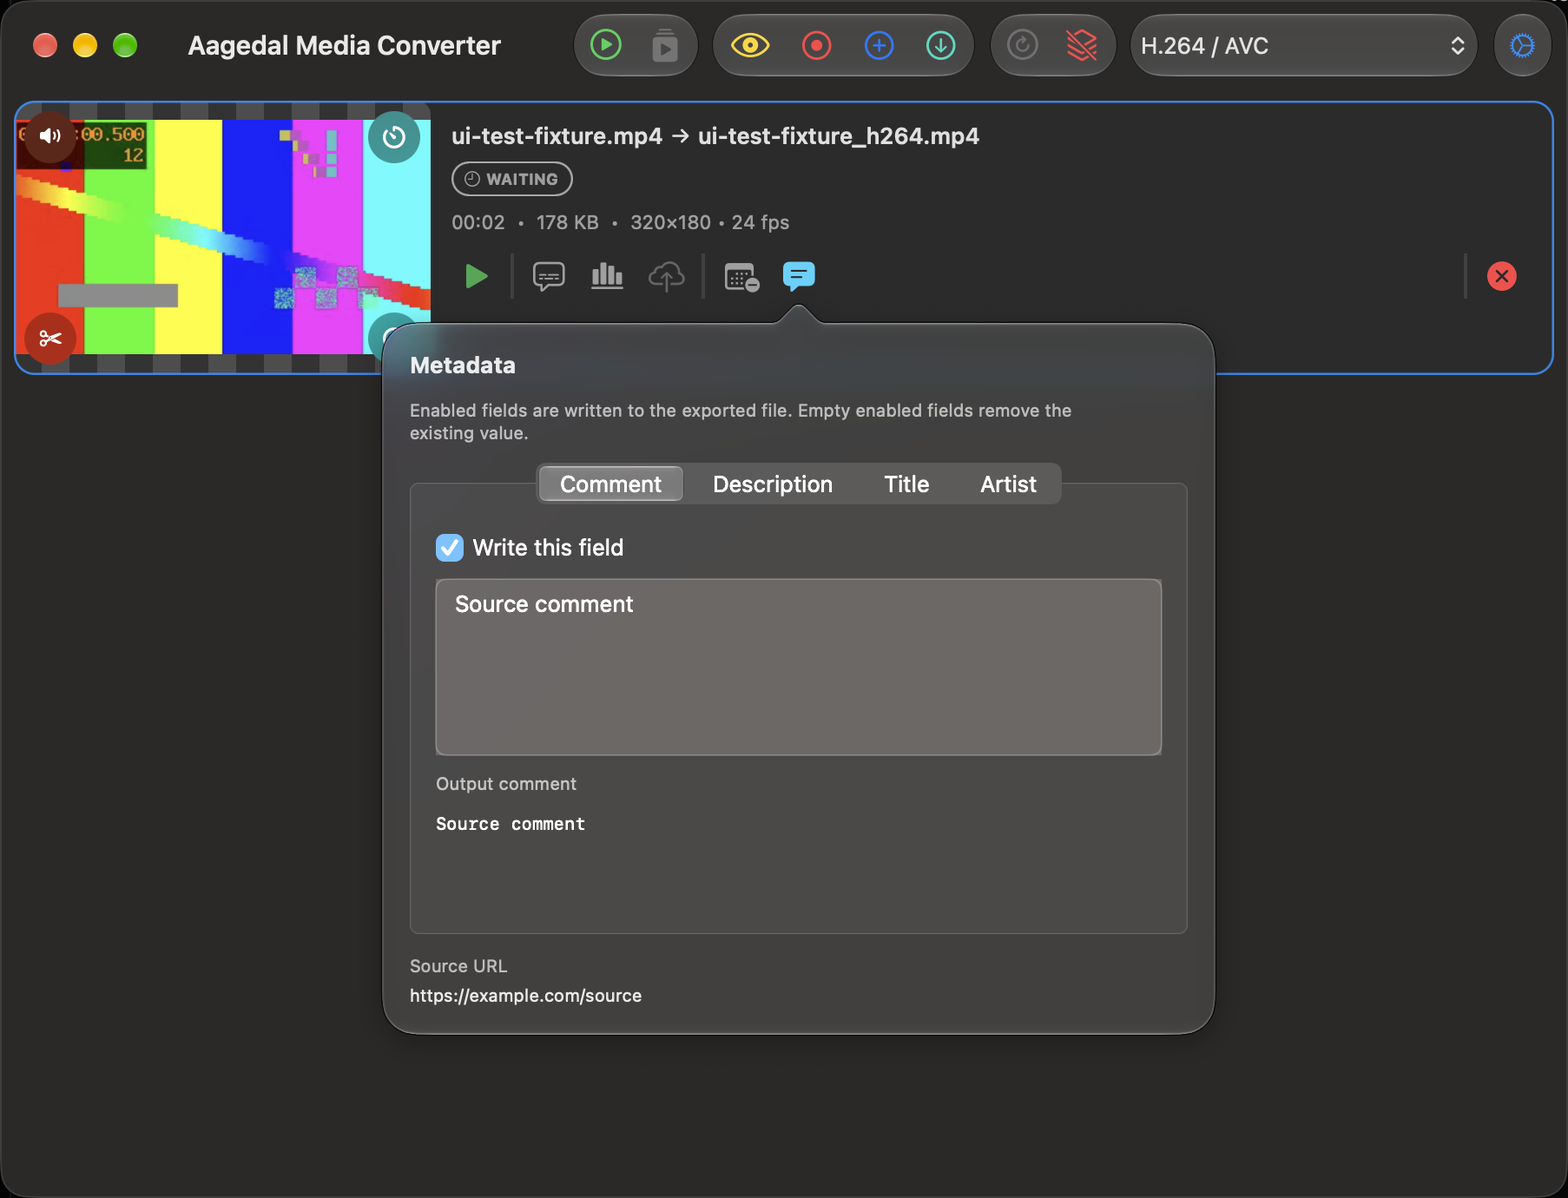
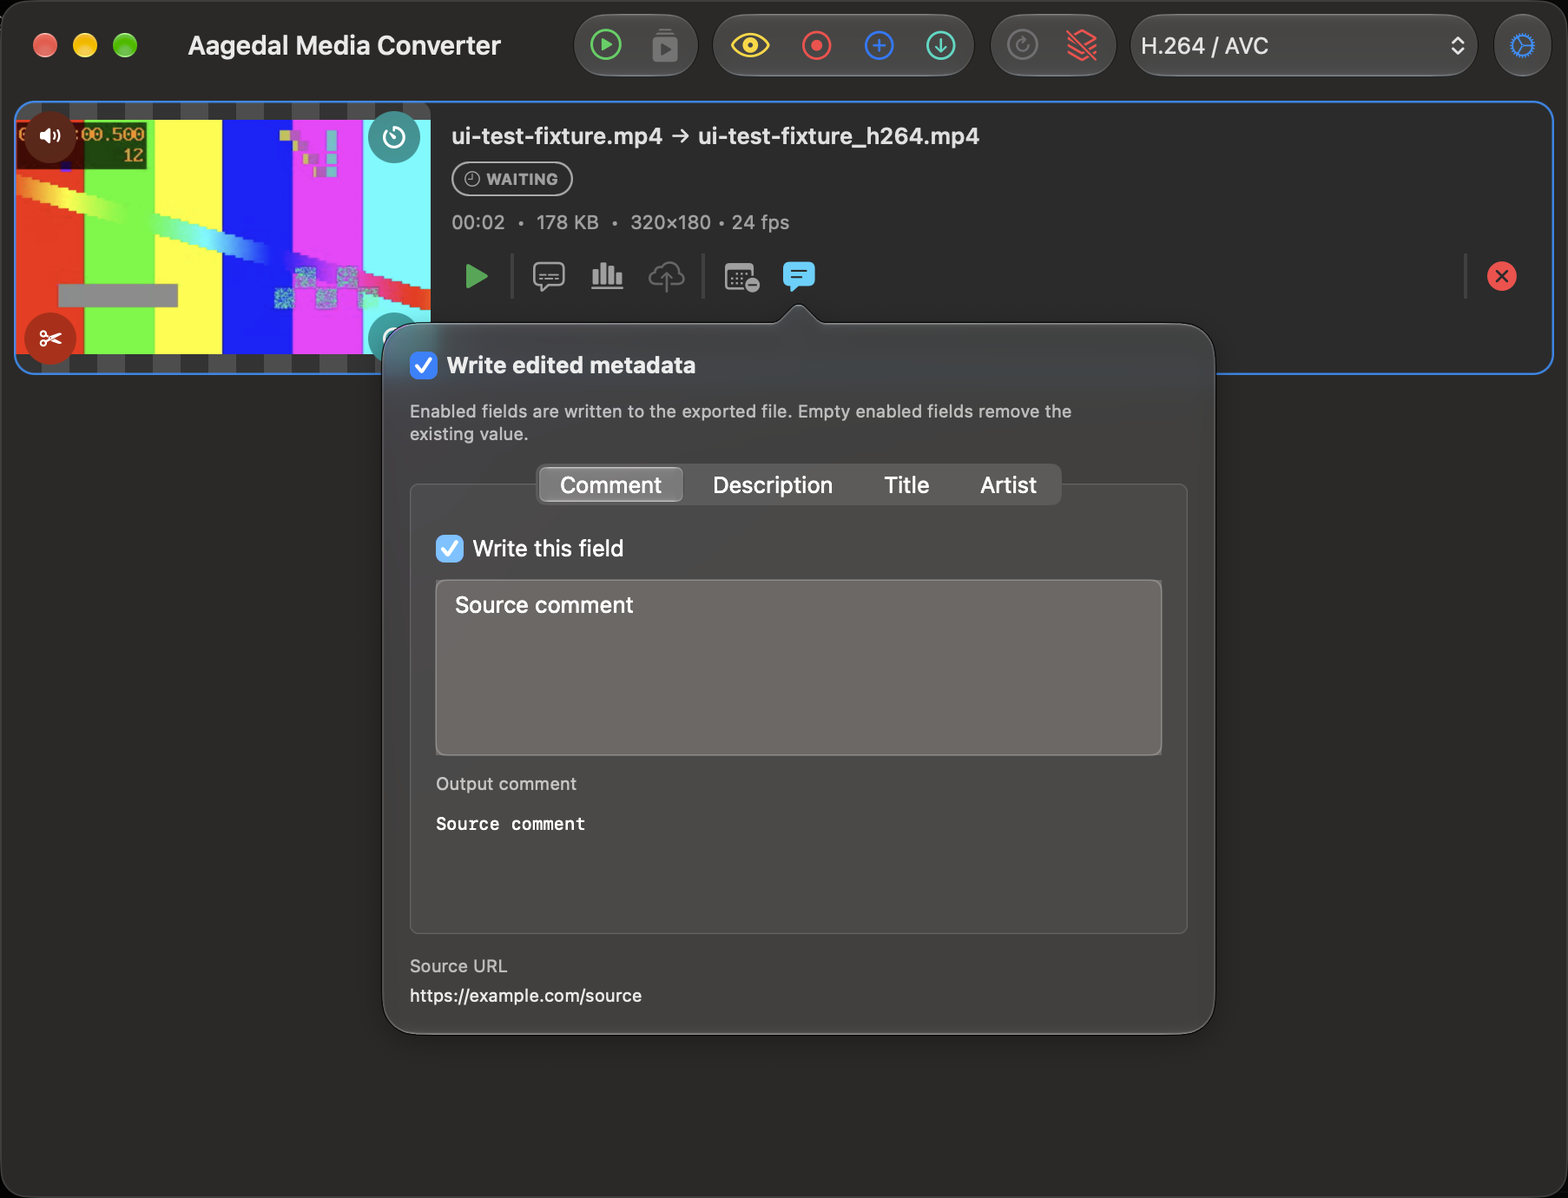
Added a master metadata switch and fixed the Comment indicator.

Changed region(s): [[0.2481, 0.2804, 0.4341, 0.3739], [0.3411, 0.3739, 0.4341, 0.4051]]

diff --git a/Aagedal Media Converter/UI/VideoQueueViews/VideoFileCellView+Comment.swift b/Aagedal Media Converter/UI/VideoQueueViews/VideoFileCellView+Comment.swift
@@ -68,12 +68,21 @@ extension VideoFileCellView: NSPopoverDelegate {
         commentToggleButton.isHidden = !commentsAvailable
         commentToggleButton.isEnabled = !config.isDownloading && config.scheduledDownloadTime == nil && !config.isLiveStreamRecording && config.downloadError == nil
         if commentsAvailable {
-            let hasComment = config.metadataEditorSettings != nil || !config.comment.isEmpty
-            commentToggleButton.image = hasComment ? VideoFileCellView.Symbol.textBubbleFill : VideoFileCellView.Symbol.textBubble
-            commentToggleButton.contentTintColor = hasComment ? .systemCyan : .secondaryLabelColor
-            commentToggleButton.toolTip = hasComment
-                ? "Edit metadata — stored in the exported file"
-                : "Edit metadata — prefilled from the source file"
+            // The speech bubble reflects Comment's override, rather than the
+            // mere existence of saved settings for any of the editor's fields.
+            let writesComment = config.metadataEditorSettings?.writesComment ?? !config.comment.isEmpty
+            commentToggleButton.image = writesComment ? VideoFileCellView.Symbol.textBubbleFill : VideoFileCellView.Symbol.textBubble
+            commentToggleButton.contentTintColor = writesComment ? .systemCyan : .secondaryLabelColor
+            commentToggleButton.setAccessibilityValue(writesComment ? "Comment override enabled" : "Comment override disabled")
+            if config.metadataEditorSettings?.isActive == false {
+                commentToggleButton.toolTip = "Edit metadata — all editor overrides disabled"
+            } else if config.metadataEditorSettings != nil {
+                commentToggleButton.toolTip = writesComment
+                    ? "Edit metadata — Comment override enabled"
+                    : "Edit metadata — Comment override disabled; other fields keep their own settings"
+            } else {
+                commentToggleButton.toolTip = "Edit metadata — prefilled from the source file"
+            }
         }
 
         // DCP / IMF metadata toggle — visible only when the current preset is a
@@ -102,7 +111,7 @@ extension VideoFileCellView: NSPopoverDelegate {
         let showDateTag = config.showDateTagButton
         dateTagButton.isHidden = !showDateTag
         if showDateTag {
-            let writesComment = config.metadataEditorSettings?.comment.isEnabled != false
+            let writesComment = config.metadataEditorSettings?.writesComment != false
             dateTagButton.isEnabled = writesComment
             dateTagButton.toolTip = writesComment ? "Include the generated date in the comment" : "Enable Comment in the metadata editor to include a date tag"
             let isActive = config.includeDateTag && writesComment
@@ -222,8 +231,14 @@ private struct MetadataEditorPopoverView: View {
 
     var body: some View {
         VStack(alignment: .leading, spacing: 12) {
-            Text("Metadata").font(.headline)
-            Text("Enabled fields are written to the exported file. Empty enabled fields remove the existing value.")
+            Toggle("Write edited metadata", isOn: Binding(
+                get: { settings.isActive }, set: { settings.isEnabled = $0 }
+            ))
+            .font(.headline)
+            .accessibilityIdentifier("metadata.editor.enabled")
+            Text(settings.isActive
+                 ? "Enabled fields are written to the exported file. Empty enabled fields remove the existing value."
+                 : "Editor overrides are off. Original metadata follows the preset's preservation setting.")
                 .font(.caption).foregroundStyle(.secondary)
             TabView {
                 field("Comment", value: $settings.comment, multiline: true)
@@ -253,24 +268,28 @@ private struct MetadataEditorPopoverView: View {
             Toggle("Write this field", isOn: value.isEnabled)
                 .help("When off, this field follows the original metadata preservation setting.")
                 .accessibilityIdentifier("metadata.editor.\(label.lowercased()).enabled")
+                .disabled(!settings.isActive)
             if multiline {
                 TextEditor(text: value.value)
+                    // Recreate the native control when editing permission
+                    // changes, keeping its text in the existing binding.
+                    .id(settings.isActive && value.wrappedValue.isEnabled)
                     .font(.body)
                     .scrollContentBackground(.hidden)
                     .padding(6)
                     .background(.background)
                     .overlay(RoundedRectangle(cornerRadius: 6).stroke(.separator))
-                    .disabled(!value.wrappedValue.isEnabled)
+                    .disabled(!settings.isActive || !value.wrappedValue.isEnabled)
                     .accessibilityLabel(label)
                     .accessibilityIdentifier("metadata.editor.\(label.lowercased()).value")
             } else {
                 TextField(label, text: value.value)
                     .textFieldStyle(.roundedBorder)
-                    .disabled(!value.wrappedValue.isEnabled)
+                    .disabled(!settings.isActive || !value.wrappedValue.isEnabled)
                     .accessibilityIdentifier("metadata.editor.\(label.lowercased()).value")
                 Spacer()
             }
-            if label == "Comment", value.wrappedValue.isEnabled {
+            if label == "Comment", settings.isActive, value.wrappedValue.isEnabled {
                 let preview = CommentMetadataPlan(comment: value.wrappedValue.value, includeDateTag: includeDateTag, settings: CommentSettings()).value
                 Text("Output comment").font(.caption).foregroundStyle(.secondary)
                 ScrollView {

diff --git a/Aagedal Media ConverterTests/Aagedal_Media_Converter_Tests.swift b/Aagedal Media ConverterTests/Aagedal_Media_Converter_Tests.swift
@@ -17012,6 +17012,56 @@ final class ContainerTextMetadataTests: XCTestCase {
         }
     }
 
+    func testMasterOffRetainsValuesAndDecodesLegacyEditors() throws {
+        var editor = MetadataEditorSettings(comment: "Comment", description: "Description", title: "Title", artist: "Artist", sourceURL: "https://example.com/source")
+        editor.isEnabled = false
+        XCTAssertFalse(editor.writesComment)
+        XCTAssertTrue(editor.outputArguments.isEmpty)
+        let request = ConversionRequest(inputURL: URL(fileURLWithPath: "/tmp/source.webm"), outputURL: URL(fileURLWithPath: "/tmp/output"), preset: .h264, comment: "Old comment", metadataEditorSettings: editor, includeDateTag: true).applyingMetadataEditor(outputExtension: "mp4")
+        XCTAssertEqual(request.comment, "")
+        XCTAssertFalse(request.includeDateTag)
+        XCTAssertNil(request.additionalOutputArguments)
+        XCTAssertEqual(request.metadataEditorSettings?.title.value, "Title")
+        let decoded = try JSONDecoder().decode(MetadataEditorSettings.self, from: JSONEncoder().encode(editor))
+        XCTAssertFalse(decoded.isActive)
+        XCTAssertEqual(decoded, editor)
+        var legacy = try XCTUnwrap(JSONSerialization.jsonObject(with: JSONEncoder().encode(editor)) as? [String: Any])
+        legacy.removeValue(forKey: "isEnabled")
+        let older = try JSONDecoder().decode(MetadataEditorSettings.self, from: JSONSerialization.data(withJSONObject: legacy))
+        XCTAssertTrue(older.isActive)
+        XCTAssertTrue(older.writesComment)
+    }
+
+    func testMasterOffExportsFollowSourcePreservationPolicy() async throws {
+        let ffmpeg = try XCTUnwrap(BinaryPathResolver.ffmpegPath)
+        let folder = FileManager.default.temporaryDirectory.appendingPathComponent(UUID().uuidString)
+        try FileManager.default.createDirectory(at: folder, withIntermediateDirectories: true)
+        defer { try? FileManager.default.removeItem(at: folder) }
+        let source = folder.appendingPathComponent("source.mp4")
+        let runner = SubprocessRunner()
+        let sourceArgs = ["-v", "error", "-f", "lavfi", "-i", "color=size=32x32:duration=0.1", "-c:v", "libx264", "-metadata", "comment=Source comment", "-metadata", "description=Source description", "-metadata", "title=Source title", "-metadata", "artist=Source artist", "-metadata", "purl=https://example.com/original", "-movflags", "+use_metadata_tags", source.path]
+        let generated = try await runner.run(SubprocessRequest(executableURL: URL(fileURLWithPath: ffmpeg), arguments: sourceArgs, timeout: .seconds(10)))
+        XCTAssertTrue(generated.succeeded, generated.standardErrorText)
+        var editor = MetadataEditorSettings(comment: "Edited comment", description: "Edited description", title: "Edited title", artist: "Edited artist", sourceURL: "https://example.com/edited")
+        editor.isEnabled = false
+        for preserve in [true, false] {
+            let output = folder.appendingPathComponent("output-\(preserve).mp4")
+            let request = ConversionRequest(inputURL: source, outputURL: output, preset: .h264, comment: editor.comment.value, metadataEditorSettings: editor, includeDateTag: true).applyingMetadataEditor(outputExtension: "mp4")
+            var args = ["-v", "error", "-i", source.path, "-c", "copy"]
+            args += request.additionalOutputArguments ?? []
+            OutputMetadataPlan(source: SourceMetadataPlan(preserveMetadata: preserve, defaultInput: 0), comment: .source, timecode: .unchanged).apply(to: &args, outputArgumentsStart: 4, outputExtension: "mp4")
+            args.append(output.path)
+            let result = try await runner.run(SubprocessRequest(executableURL: URL(fileURLWithPath: ffmpeg), arguments: args, timeout: .seconds(10)))
+            XCTAssertTrue(result.succeeded, result.standardErrorText)
+            let text = await ContainerTextMetadata.read(from: output)
+            XCTAssertEqual(text.comment, preserve ? "Source comment" : nil)
+            XCTAssertEqual(text.description, preserve ? "Source description" : nil)
+            XCTAssertEqual(text.title, preserve ? "Source title" : nil)
+            XCTAssertEqual(text.artist, preserve ? "Source artist" : nil)
+            XCTAssertEqual(text.sourceURL, preserve ? "https://example.com/original" : nil)
+        }
+    }
+
     func testDisabledEditorCommentDoesNotGenerateDateTag() {
         var editor = MetadataEditorSettings(comment: "Disabled", description: "", title: "", artist: "")
         editor.comment.isEnabled = false

diff --git a/Aagedal Media ConverterUITests/Aagedal_Media_Converter_UITests.swift b/Aagedal Media ConverterUITests/Aagedal_Media_Converter_UITests.swift
@@ -122,6 +122,66 @@ final class Aagedal_Media_Converter_UITests: XCTestCase {
     }
 
     @MainActor
+    func testDisablingCommentUpdatesQueueIconAndPersistsAfterReopening() throws {
+        launchApp(generatedFixture: true, defaultPreset: "H.264 / AVC", additionalArguments: [
+            "-AMC_UI_TEST_TEXT_METADATA", "YES", "-showCommentField", "YES",
+            "-preserveMetadataByDefault", "NO"
+        ])
+        defer { terminateAndCleanFixtures() }
+        XCTAssertTrue(element("queue.item").waitForExistence(timeout: 20))
+        let openEditor = element("queue.item.metadataEditor")
+        openEditor.click()
+        XCTAssertTrue(element("metadata.editor.comment.value").waitForExistence(timeout: 5))
+        XCTAssertTrue(waitForValue("Comment override enabled", of: openEditor, timeout: 5))
+        let writeComment = app.checkBoxes.matching(identifier: "metadata.editor.comment.enabled").firstMatch
+        XCTAssertTrue(writeComment.waitForExistence(timeout: 5))
+        writeComment.click()
+        XCTAssertTrue(waitForToggle(false, of: writeComment, timeout: 5))
+        XCTAssertTrue(waitForValue("Comment override disabled", of: openEditor, timeout: 5))
+        XCTAssertFalse(element("metadata.editor.comment.value").isEnabled)
+        attachWindowScreenshot(named: "Metadata editor - Comment disabled")
+        app.typeKey(.escape, modifierFlags: [])
+        openEditor.click()
+        XCTAssertTrue(writeComment.waitForExistence(timeout: 5))
+        XCTAssertTrue(waitForToggle(false, of: writeComment, timeout: 5))
+        XCTAssertEqual(element("metadata.editor.comment.value").value as? String, "Source comment")
+    }
+
+    @MainActor
+    func testMetadataMasterSwitchDisablesAllOverridesAndRetainsValues() throws {
+        launchApp(generatedFixture: true, defaultPreset: "H.264 / AVC", additionalArguments: [
+            "-AMC_UI_TEST_TEXT_METADATA", "YES", "-showCommentField", "YES"
+        ])
+        defer { terminateAndCleanFixtures() }
+        XCTAssertTrue(element("queue.item").waitForExistence(timeout: 20))
+        let openEditor = element("queue.item.metadataEditor")
+        openEditor.click()
+        let master = app.checkBoxes.matching(identifier: "metadata.editor.enabled").firstMatch
+        XCTAssertTrue(master.waitForExistence(timeout: 5))
+        master.click()
+        XCTAssertTrue(waitForToggle(false, of: master, timeout: 5))
+        XCTAssertFalse(element("metadata.editor.comment.value").isEnabled)
+        XCTAssertFalse(app.checkBoxes.matching(identifier: "metadata.editor.comment.enabled").firstMatch.isEnabled)
+        XCTAssertTrue(waitForValue("Comment override disabled", of: openEditor, timeout: 5))
+        attachWindowScreenshot(named: "Metadata editor - All overrides disabled")
+        app.typeKey(.escape, modifierFlags: [])
+        openEditor.click()
+        XCTAssertTrue(master.waitForExistence(timeout: 5))
+        XCTAssertTrue(waitForToggle(false, of: master, timeout: 5))
+        master.click()
+        XCTAssertTrue(waitForToggle(true, of: master, timeout: 5))
+        attachWindowScreenshot(named: "Metadata editor - Reenabled after reopening")
+        let comment = element("metadata.editor.comment.value")
+        XCTAssertEqual(comment.value as? String, "Source comment")
+        XCTAssertTrue(app.checkBoxes.matching(identifier: "metadata.editor.comment.enabled").firstMatch.isEnabled)
+        comment.click()
+        comment.typeKey("a", modifierFlags: .command)
+        comment.typeText("Restored comment")
+        XCTAssertTrue(waitForValue("Restored comment", of: comment, timeout: 5))
+        XCTAssertTrue(waitForValue("Comment override enabled", of: openEditor, timeout: 5))
+    }
+
+    @MainActor
     func testEmptyQueueTipsWrapAndRefreshInBothLanguages() throws {
         for (language, locale) in [("en", "en_US"), ("nb", "nb_NO")] {
             launchApp(language: language, locale: locale, tipIndex: 15)

diff --git a/Aagedal Media Converter/Logic/Conversion/FFMPEGConverter.swift b/Aagedal Media Converter/Logic/Conversion/FFMPEGConverter.swift
@@ -689,7 +689,7 @@ actor FFMPEGConverter {
         let capturedCodecSettings = codecSettings ?? CodecExportSettings(preset: preset)
         let capturedSubtitleSettings = subtitleSettings ?? SubtitleExportSettings()
         let sourceCommentSettings = commentSettings ?? CommentSettings()
-        let capturedCommentSettings = request.metadataEditorSettings?.comment.isEnabled == false
+        let capturedCommentSettings = request.metadataEditorSettings?.writesComment == false
             ? sourceCommentSettings.withoutAffixes : sourceCommentSettings
         guard let ffmpegPath = ffmpegPathProvider() else {
             Self.logger.error("FFMPEG binary not found")
@@ -1050,7 +1050,7 @@ actor FFMPEGConverter {
                 trimStart: request.trimStart,
                 trimEnd: request.trimEnd,
                 comment: request.comment,
-                writeEmptyComment: request.metadataEditorSettings?.comment.isEnabled == true,
+                writeEmptyComment: request.metadataEditorSettings?.writesComment == true,
                 includeDateTag: request.includeDateTag,
                 commentSettings: capturedCommentSettings,
                 isMuted: request.isMuted,
@@ -1244,7 +1244,7 @@ actor FFMPEGConverter {
             commentSettings: capturedCommentSettings,
             subtitleSettings: capturedSubtitleSettings,
             comment: request.comment,
-            writeEmptyComment: request.metadataEditorSettings?.comment.isEnabled == true,
+            writeEmptyComment: request.metadataEditorSettings?.writesComment == true,
             includeDateTag: request.includeDateTag,
             trimStart: tempAudioURL != nil ? nil : request.trimStart,  // Trim already applied in pre-processing
             trimEnd: tempAudioURL != nil ? nil : request.trimEnd,
@@ -3055,13 +3055,14 @@ actor FFMPEGConverter {
         }
         let inheritedText = settings.preserveMetadata == true ? sourceMetadata : nil
         let composedComment = FFMPEGCommandBuilder.commentMetadataValue(comment: comment, includeDateTag: includeDateTag, settings: commentSettings)
+        let editor = metadataEditorSettings.flatMap { $0.isActive ? $0 : nil }
         let metadata = MatroskaMuxer.Metadata(
-            comment: metadataEditorSettings?.comment.isEnabled == true ? composedComment : composedComment ?? inheritedText?.comment,
+            comment: editor?.writesComment == true ? composedComment : composedComment ?? inheritedText?.comment,
             timecode: timecode,
-            description: metadataEditorSettings.flatMap { $0.description.isEnabled ? $0.description.value : nil } ?? inheritedText?.description,
-            title: metadataEditorSettings.flatMap { $0.title.isEnabled ? $0.title.value : nil } ?? inheritedText?.title,
-            artist: metadataEditorSettings.flatMap { $0.artist.isEnabled ? $0.artist.value : nil } ?? inheritedText?.artist,
-            sourceURL: metadataEditorSettings?.sourceURL ?? inheritedText?.sourceURL
+            description: editor.flatMap { $0.description.isEnabled ? $0.description.value : nil } ?? inheritedText?.description,
+            title: editor.flatMap { $0.title.isEnabled ? $0.title.value : nil } ?? inheritedText?.title,
+            artist: editor.flatMap { $0.artist.isEnabled ? $0.artist.value : nil } ?? inheritedText?.artist,
+            sourceURL: editor?.sourceURL ?? inheritedText?.sourceURL
         )
 
         // 5. Write the Matroska file.

diff --git a/Aagedal Media Converter/Logic/AgentAccess/ApplicationJobContract.swift b/Aagedal Media Converter/Logic/AgentAccess/ApplicationJobContract.swift
@@ -937,11 +937,12 @@ struct ApplicationConversionRequest: Codable, Equatable, Sendable {
         lines.append(String(localized: "Timecode: \(timecode)", locale: locale,
                             comment: "Accepted conversion settings summary: timecode behavior or value."))
         if sourceExecutionSettings != nil || executionSettings != nil {
-            if let sourceExecutionSettings, !sourceExecutionSettings.comment.isEmpty {
+            if let sourceExecutionSettings, !sourceExecutionSettings.comment.isEmpty,
+               sourceExecutionSettings.metadataEditorSettings?.writesComment != false {
                 lines.append(String(localized: "Comment: \(sourceExecutionSettings.comment)", locale: locale,
                                     comment: "Accepted conversion settings summary: embedded comment."))
             }
-            if let editor = sourceExecutionSettings?.metadataEditorSettings {
+            if let editor = sourceExecutionSettings?.metadataEditorSettings, editor.isActive {
                 for (label, field) in [("Description", editor.description), ("Title", editor.title), ("Artist", editor.artist)] where field.isEnabled {
                     lines.append("\(label): \(field.value)")
                 }

diff --git a/Aagedal Media Converter/Logic/Metadata/MetadataTypes.swift b/Aagedal Media Converter/Logic/Metadata/MetadataTypes.swift
@@ -12,6 +12,10 @@ struct MetadataEditorField: Codable, Equatable, Sendable {
 /// Per-item values captured with a conversion. Disabled fields follow the
 /// general source-preservation policy; enabled empty fields explicitly clear tags.
 struct MetadataEditorSettings: Codable, Equatable, Sendable {
+    /// Missing in older snapshots, which retain their enabled editor behavior.
+    var isEnabled: Bool? = true
+    var isActive: Bool { isEnabled != false }
+    var writesComment: Bool { isActive && comment.isEnabled }
     var comment = MetadataEditorField()
     var description = MetadataEditorField()
     var title = MetadataEditorField()
@@ -27,6 +31,7 @@ struct MetadataEditorSettings: Codable, Equatable, Sendable {
     }
 
     var outputArguments: [String] {
+        guard isActive else { return [] }
         var arguments: [String] = []
         for (name, field) in [("description", description), ("title", title), ("artist", artist)] where field.isEnabled {
             arguments += ["-metadata", "\(name)=\(field.value)"]

diff --git a/Aagedal Media Converter/Logic/Conversion/ConversionRequest.swift b/Aagedal Media Converter/Logic/Conversion/ConversionRequest.swift
@@ -71,9 +71,10 @@ struct ConversionRequest: Sendable {
             ?? preset.outputExtension(for: inputURL).lowercased()
         guard ExportPreset.extensionSupportsCommentMetadata(ext) else { return self }
         var request = self
-        request.comment = editor.comment.isEnabled ? editor.comment.value : ""
-        if !editor.comment.isEnabled { request.includeDateTag = false }
+        request.comment = editor.writesComment ? editor.comment.value : ""
+        if !editor.writesComment { request.includeDateTag = false }
         request.metadataEditorWasApplied = true
+        guard editor.isActive else { return request }
         // Native AV2 muxing receives the typed fields directly; arbitrary
         // FFmpeg output options are intentionally unsupported by that pipeline.
         if preset == .av2 { return request }

diff --git a/Aagedal Media Converter/UI/VideoQueueViews/VideoQueueTableView.swift b/Aagedal Media Converter/UI/VideoQueueViews/VideoQueueTableView.swift
@@ -1525,7 +1525,7 @@ struct VideoQueueTableView: NSViewRepresentable {
             case .metadataEditorChanged(let settings):
                 if let idx = droppedFilesIndex[itemID] {
                     parent.droppedFiles[idx].metadataEditorSettings = settings
-                    parent.droppedFiles[idx].comment = settings.comment.isEnabled ? settings.comment.value : ""
+                    parent.droppedFiles[idx].comment = settings.writesComment ? settings.comment.value : ""
                 }
             case .commentFocusChanged(let focused):
                 if focused {
